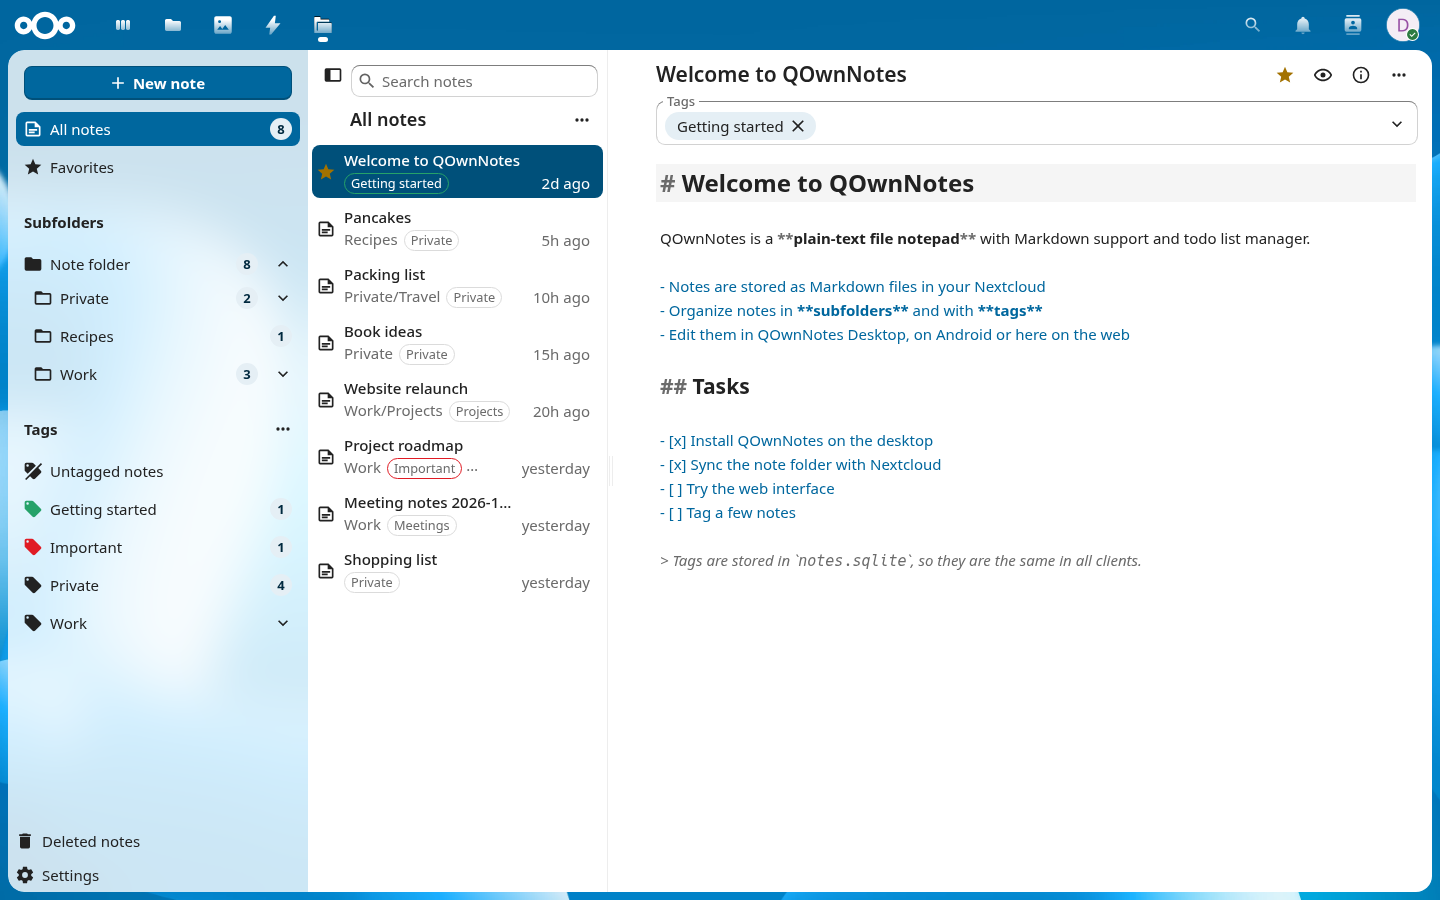
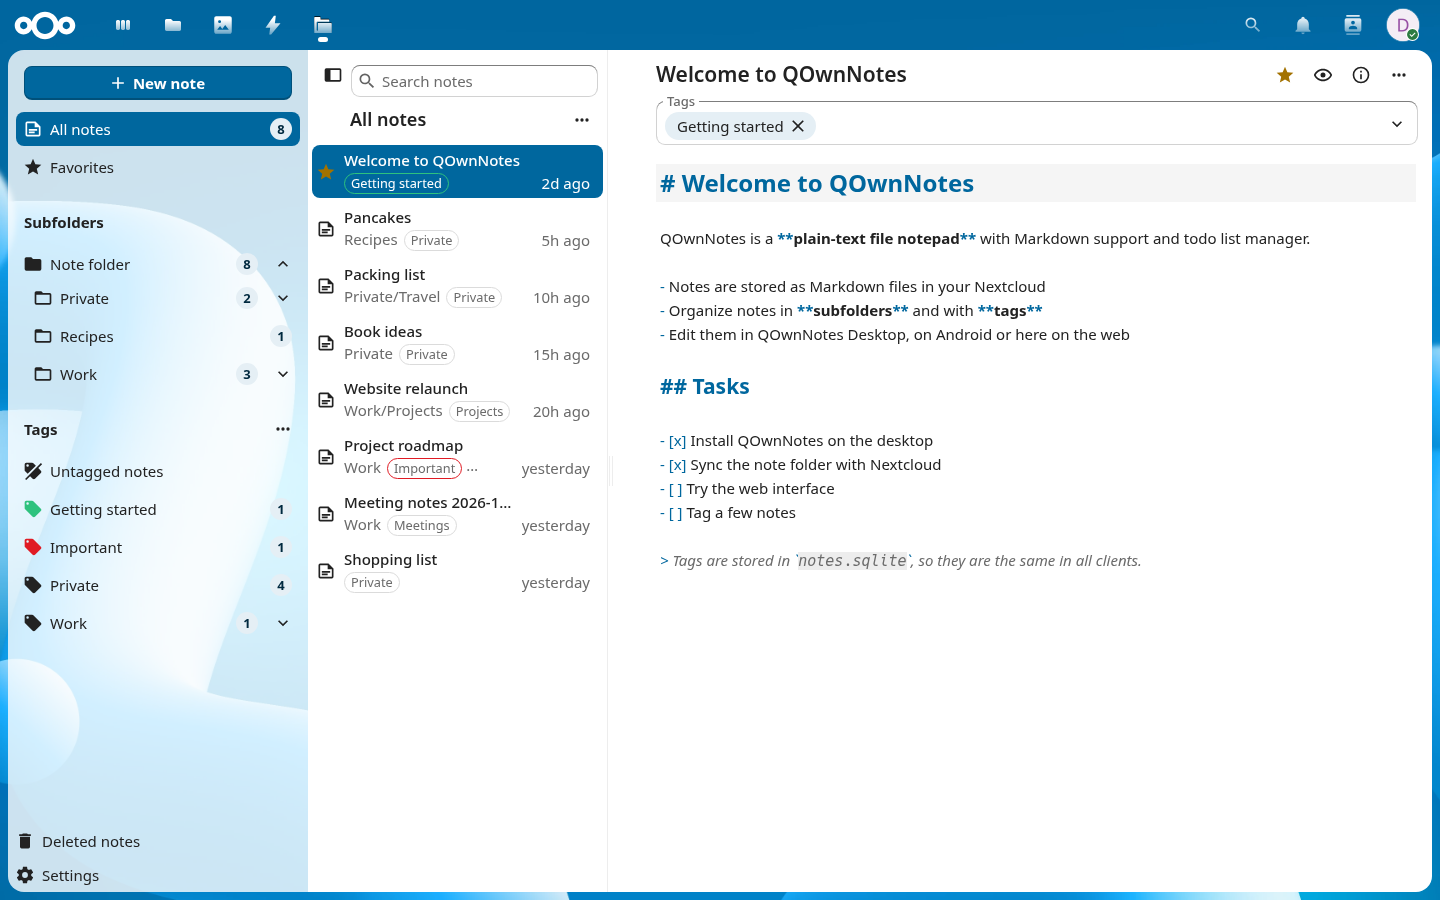
feat: add just screenshots recipe to create the app store and README screenshots

diff --git a/tests/e2e/screenshots/screenshots.spec.js b/tests/e2e/screenshots/screenshots.spec.js
@@ -1,0 +1,210 @@
+/**
+ * SPDX-FileCopyrightText: 2026 Patrizio Bekerle <patrizio@bekerle.com>
+ * SPDX-License-Identifier: AGPL-3.0-or-later
+ */
+
+import { expect, request, test } from '@playwright/test'
+import { fileURLToPath } from 'node:url'
+import { apiClient, APP_PATH, login, navigationEntry, noteListItem, PASSWORD, USER } from '../tests/helpers.js'
+
+// A fresh demo user, so the screenshots only show the demo notes
+const DEMO_USER = 'demo'
+const DEMO_DISPLAY_NAME = 'Demo'
+const DEMO_PASSWORD = 'Screenshot-Demo-2026!'
+const SCREENSHOT_DIR = fileURLToPath(new URL('../../../docs/screenshots/', import.meta.url))
+
+const HOUR = 60 * 60
+const WELCOME_TITLE = 'Welcome to QOwnNotes'
+
+const NOTES = [
+	{
+		title: WELCOME_TITLE,
+		category: '',
+		favorite: true,
+		age: 50 * HOUR,
+		tags: [['Getting started']],
+		content: `# ${WELCOME_TITLE}
+
+QOwnNotes is a **plain-text file notepad** with Markdown support and todo list manager.
+
+- Notes are stored as Markdown files in your Nextcloud
+- Organize notes in **subfolders** and with **tags**
+- Edit them in QOwnNotes Desktop, on Android or here on the web
+
+## Tasks
+
+- [x] Install QOwnNotes on the desktop
+- [x] Sync the note folder with Nextcloud
+- [ ] Try the web interface
+- [ ] Tag a few notes
+
+> Tags are stored in \`notes.sqlite\`, so they are the same in all clients.
+`,
+	},
+	{
+		title: 'Pancakes',
+		category: 'Recipes',
+		age: 5 * HOUR,
+		tags: [['Private']],
+		content: '# Pancakes\n\n- 200 g flour\n- 2 eggs\n- 300 ml milk\n- 1 pinch of salt\n',
+	},
+	{
+		title: 'Packing list',
+		category: 'Private/Travel',
+		age: 10 * HOUR,
+		tags: [['Private']],
+		content: '# Packing list\n\n- [ ] Passport\n- [ ] Charger\n- [ ] Sunscreen\n',
+	},
+	{
+		title: 'Book ideas',
+		category: 'Private',
+		age: 15 * HOUR,
+		tags: [['Private']],
+		content: '# Book ideas\n\n- A note-taking detective\n- The lost Markdown file\n',
+	},
+	{
+		title: 'Website relaunch',
+		category: 'Work/Projects',
+		age: 20 * HOUR,
+		tags: [['Work', 'Projects']],
+		content: '# Website relaunch\n\n## Milestones\n\n- [x] Design\n- [ ] Content\n- [ ] Launch\n',
+	},
+	{
+		title: 'Project roadmap',
+		category: 'Work',
+		age: 26 * HOUR,
+		tags: [['Important'], ['Work']],
+		content: '# Project roadmap\n\n| Quarter | Goal |\n| --- | --- |\n| Q1 | Beta |\n| Q2 | Release |\n',
+	},
+	{
+		title: 'Meeting notes 2026-10-05',
+		category: 'Work',
+		age: 28 * HOUR,
+		tags: [['Work', 'Meetings']],
+		content: '# Meeting notes 2026-10-05\n\n## Attendees\n\n- Alice\n- Bob\n',
+	},
+	{
+		title: 'Shopping list',
+		category: '',
+		age: 30 * HOUR,
+		tags: [['Private']],
+		content: '# Shopping list\n\n- [ ] Bread\n- [ ] Coffee\n- [ ] Apples\n',
+	},
+]
+
+const TAG_COLORS = {
+	'Getting started': '#2ec27e',
+	Important: '#e01b24',
+}
+
+// Hide the blinking text cursor and the scrollbars, so the screenshots don't change between runs
+const SCREENSHOT_CSS = `
+	.cm-cursorLayer, .cm-dropCursor { display: none !important; }
+	* { caret-color: transparent !important; scrollbar-width: none !important; }
+`
+
+let api
+const noteIds = {}
+
+/**
+ * Recreates the demo user with the OCS provisioning API of the admin
+ *
+ * @param {string} baseURL the server URL
+ */
+async function recreateDemoUser(baseURL) {
+	const admin = await request.newContext({
+		baseURL,
+		extraHTTPHeaders: {
+			Authorization: 'Basic ' + Buffer.from(`${USER}:${PASSWORD}`).toString('base64'),
+			'OCS-APIRequest': 'true',
+			Accept: 'application/json',
+		},
+	})
+	try {
+		await admin.delete(`/ocs/v2.php/cloud/users/${DEMO_USER}`)
+		const response = await admin.post('/ocs/v2.php/cloud/users', {
+			form: { userid: DEMO_USER, password: DEMO_PASSWORD, displayName: DEMO_DISPLAY_NAME },
+		})
+		expect(response.ok(), `create user: ${response.status()} ${await response.text()}`).toBeTruthy()
+	} finally {
+		await admin.dispose()
+	}
+}
+
+/**
+ * Creates the demo notes, tags and tag colors
+ */
+async function createDemoNotes() {
+	const now = Math.floor(Date.now() / 1000)
+	for (const note of NOTES) {
+		const created = await api.post('notes', {
+			title: note.title,
+			category: note.category,
+			content: note.content,
+			favorite: note.favorite ?? false,
+		})
+		await api.put(`note/${created.id}/tags`, { tagPaths: note.tags })
+		// Set the modification time last, because tagging may touch the note
+		await api.put(`notes/${created.id}`, { modified: now - note.age })
+		noteIds[note.title] = created.id
+	}
+
+	const { tags } = await api.get('tags')
+	for (const tag of tags) {
+		if (TAG_COLORS[tag.name]) {
+			await api.patch(`tags/${tag.id}`, { color: TAG_COLORS[tag.name] })
+		}
+	}
+}
+
+/**
+ * Opens the welcome note in a stable state for screenshots
+ *
+ * @param {import('@playwright/test').Page} page the page
+ */
+async function openWelcomeNote(page) {
+	await page.goto(`${APP_PATH}/note/${noteIds[WELCOME_TITLE]}`)
+	await expect(page.locator('.note-editor__title h2')).toHaveText(WELCOME_TITLE)
+	await expect(noteListItem(page, 'Shopping list')).toHaveCount(1)
+	await expect(navigationEntry(page, 'Getting started')).toBeVisible()
+	await page.addStyleTag({ content: SCREENSHOT_CSS })
+}
+
+/**
+ * @param {import('@playwright/test').Page} page the page
+ * @param {string} name the file name without extension
+ */
+async function screenshot(page, name) {
+	// Move the mouse away, so no hover effects or tooltips are visible
+	await page.mouse.move(0, 0)
+	await page.evaluate(() => document.activeElement?.blur())
+	await page.evaluate(() => document.fonts.ready)
+	await page.screenshot({ path: `${SCREENSHOT_DIR}${name}.png`, animations: 'disabled' })
+}
+
+test.beforeAll(async ({ baseURL }) => {
+	await recreateDemoUser(baseURL)
+	api = await apiClient(baseURL, DEMO_USER, DEMO_PASSWORD)
+	await createDemoNotes()
+})
+
+test.afterAll(async () => {
+	await api?.dispose()
+})
+
+test.beforeEach(async ({ page }) => {
+	await login(page, DEMO_USER, DEMO_PASSWORD)
+})
+
+test('editor', async ({ page }) => {
+	await openWelcomeNote(page)
+	await expect(page.locator('.cm-content')).toContainText('Tag a few notes')
+	await screenshot(page, 'editor')
+})
+
+test('preview', async ({ page }) => {
+	await openWelcomeNote(page)
+	await page.getByRole('button', { name: 'Preview', exact: true }).click()
+	await expect(page.locator('.note-preview h1')).toHaveText(WELCOME_TITLE)
+	await screenshot(page, 'preview')
+})

diff --git a/tests/e2e/tests/helpers.js b/tests/e2e/tests/helpers.js
@@ -20,11 +20,13 @@ export function uniqueName(prefix) {
 
 /**
  * @param {import('@playwright/test').Page} page the page
+ * @param {string} user the user name
+ * @param {string} password the password
  */
-export async function login(page) {
+export async function login(page, user = USER, password = PASSWORD) {
 	await page.goto('/index.php/login')
-	await page.fill('#user', USER)
-	await page.fill('#password', PASSWORD)
+	await page.fill('#user', user)
+	await page.fill('#password', password)
 	await page.click('button[type=submit]')
 	await page.waitForURL(/\/apps\//u)
 }
@@ -33,12 +35,14 @@ export async function login(page) {
  * An API client with basic auth, for preparing and checking data
  *
  * @param {string} baseURL the server URL
+ * @param {string} user the user name
+ * @param {string} password the password
  */
-export async function apiClient(baseURL) {
+export async function apiClient(baseURL, user = USER, password = PASSWORD) {
 	const context = await request.newContext({
 		baseURL,
 		extraHTTPHeaders: {
-			Authorization: 'Basic ' + Buffer.from(`${USER}:${PASSWORD}`).toString('base64'),
+			Authorization: 'Basic ' + Buffer.from(`${user}:${password}`).toString('base64'),
 			'OCS-APIRequest': 'true',
 			Accept: 'application/json',
 		},
@@ -55,6 +59,7 @@ export async function apiClient(baseURL) {
 		get: (path) => call('GET', path),
 		post: (path, data) => call('POST', path, data),
 		put: (path, data, headers) => call('PUT', path, data, headers),
+		patch: (path, data) => call('PATCH', path, data),
 		delete: (path) => call('DELETE', path),
 		dispose: () => context.dispose(),
 	}

diff --git a/tests/e2e/playwright.screenshots.config.js b/tests/e2e/playwright.screenshots.config.js
@@ -1,0 +1,36 @@
+/**
+ * SPDX-FileCopyrightText: 2026 Patrizio Bekerle <patrizio@bekerle.com>
+ * SPDX-License-Identifier: AGPL-3.0-or-later
+ */
+
+import { defineConfig, devices } from '@playwright/test'
+
+// Creates the screenshots in docs/screenshots (app store and README), see `just screenshots`.
+// Runs against the docker development server (see docker/README.md) or the server in NEXTCLOUD_URL.
+export default defineConfig({
+	testDir: './screenshots',
+	timeout: 120 * 1000,
+	expect: { timeout: 10 * 1000 },
+	fullyParallel: false,
+	workers: 1,
+	reporter: 'list',
+	use: {
+		baseURL: process.env.NEXTCLOUD_URL ?? 'http://localhost:8081',
+		trace: 'retain-on-failure',
+	},
+	projects: [
+		{
+			name: 'chromium',
+			use: {
+				...devices['Desktop Chrome'],
+				viewport: { width: 1440, height: 900 },
+				deviceScaleFactor: 1,
+				colorScheme: 'light',
+				reducedMotion: 'reduce',
+				locale: 'en-US',
+				timezoneId: 'UTC',
+				launchOptions: process.env.CHROMIUM_PATH ? { executablePath: process.env.CHROMIUM_PATH } : {},
+			},
+		},
+	],
+})

diff --git a/README.md b/README.md
@@ -9,6 +9,8 @@ QOwnNotes for Nextcloud lets you view and edit the notes of your [QOwnNotes](htt
 
 It also provides the server APIs for the [QOwnNotes desktop app](https://www.qownnotes.org) (note versions and trash) and the [QOwnNotes Android app](https://github.com/qownnotes/qownnotes-android) (a Nextcloud Notes API compatible note API), and replaces the QOwnNotesAPI app and, for QOwnNotes Android, the Nextcloud Notes app.
 
+![Markdown editor with note subfolders and tags](docs/screenshots/editor.png)
+
 ## Features
 
 - Notes stay plain Markdown files in your Nextcloud, organized in note subfolders like in QOwnNotes Desktop
@@ -86,6 +88,7 @@ just vm-test-version   # NixOS VM test against a single Nextcloud version (defau
 just vm-test           # NixOS VM test against all supported Nextcloud versions
 just release-check     # validate release metadata and packaging inputs (no credentials needed)
 just sign-app          # signed release archive in build/ (see docs/release.md)
+just screenshots       # app store and README screenshots in docs/screenshots/ (docker dev server)
 ```
 
 The VM tests use the git-tracked files, so add new files with `git add` before running them.

diff --git a/tests/e2e/README.md b/tests/e2e/README.md
@@ -10,3 +10,12 @@ just test-e2e             # uses the system Chromium if available (NixOS), other
 ```
 
 Use `NEXTCLOUD_URL`, `NEXTCLOUD_USER` and `NEXTCLOUD_PASSWORD` to test against another server.
+
+## Screenshots
+
+`just screenshots` creates the app store and README screenshots in [docs/screenshots/](../../docs/screenshots/) with
+[screenshots/screenshots.spec.js](screenshots/screenshots.spec.js) and the same server. It recreates the user `demo`
+(with the admin account), fills its note folder with demo notes, tags and tag colors, and takes the screenshots at
+1440×900 in the light theme. The PNG files are optimized with `oxipng` if it is installed. Review the images before
+committing them; the app store loads them from the `main` branch. New screenshots also need a `<screenshot>` entry in
+`appinfo/info.xml`.

diff --git a/CHANGELOG.md b/CHANGELOG.md
@@ -35,6 +35,7 @@
   - Changes of `notes.sqlite` within the same second always get a new ETag, so other clients notice them;
     the modification time keeps increasing, so quick successive changes never bring back an earlier ETag
     and its cached tags
+  - `just screenshots` creates the app store and README screenshots with Playwright and a demo user
   - Rejected `notes.sqlite` copies are cleaned up, and the 50 MiB limit is enforced even with stale storage metadata
   - Tag compatibility tests use a real Desktop schema-16 database; VM tests exercise parallel API and WebDAV writes
   - Tag responses respect read-only shares even when permissions change without a new database ETag
